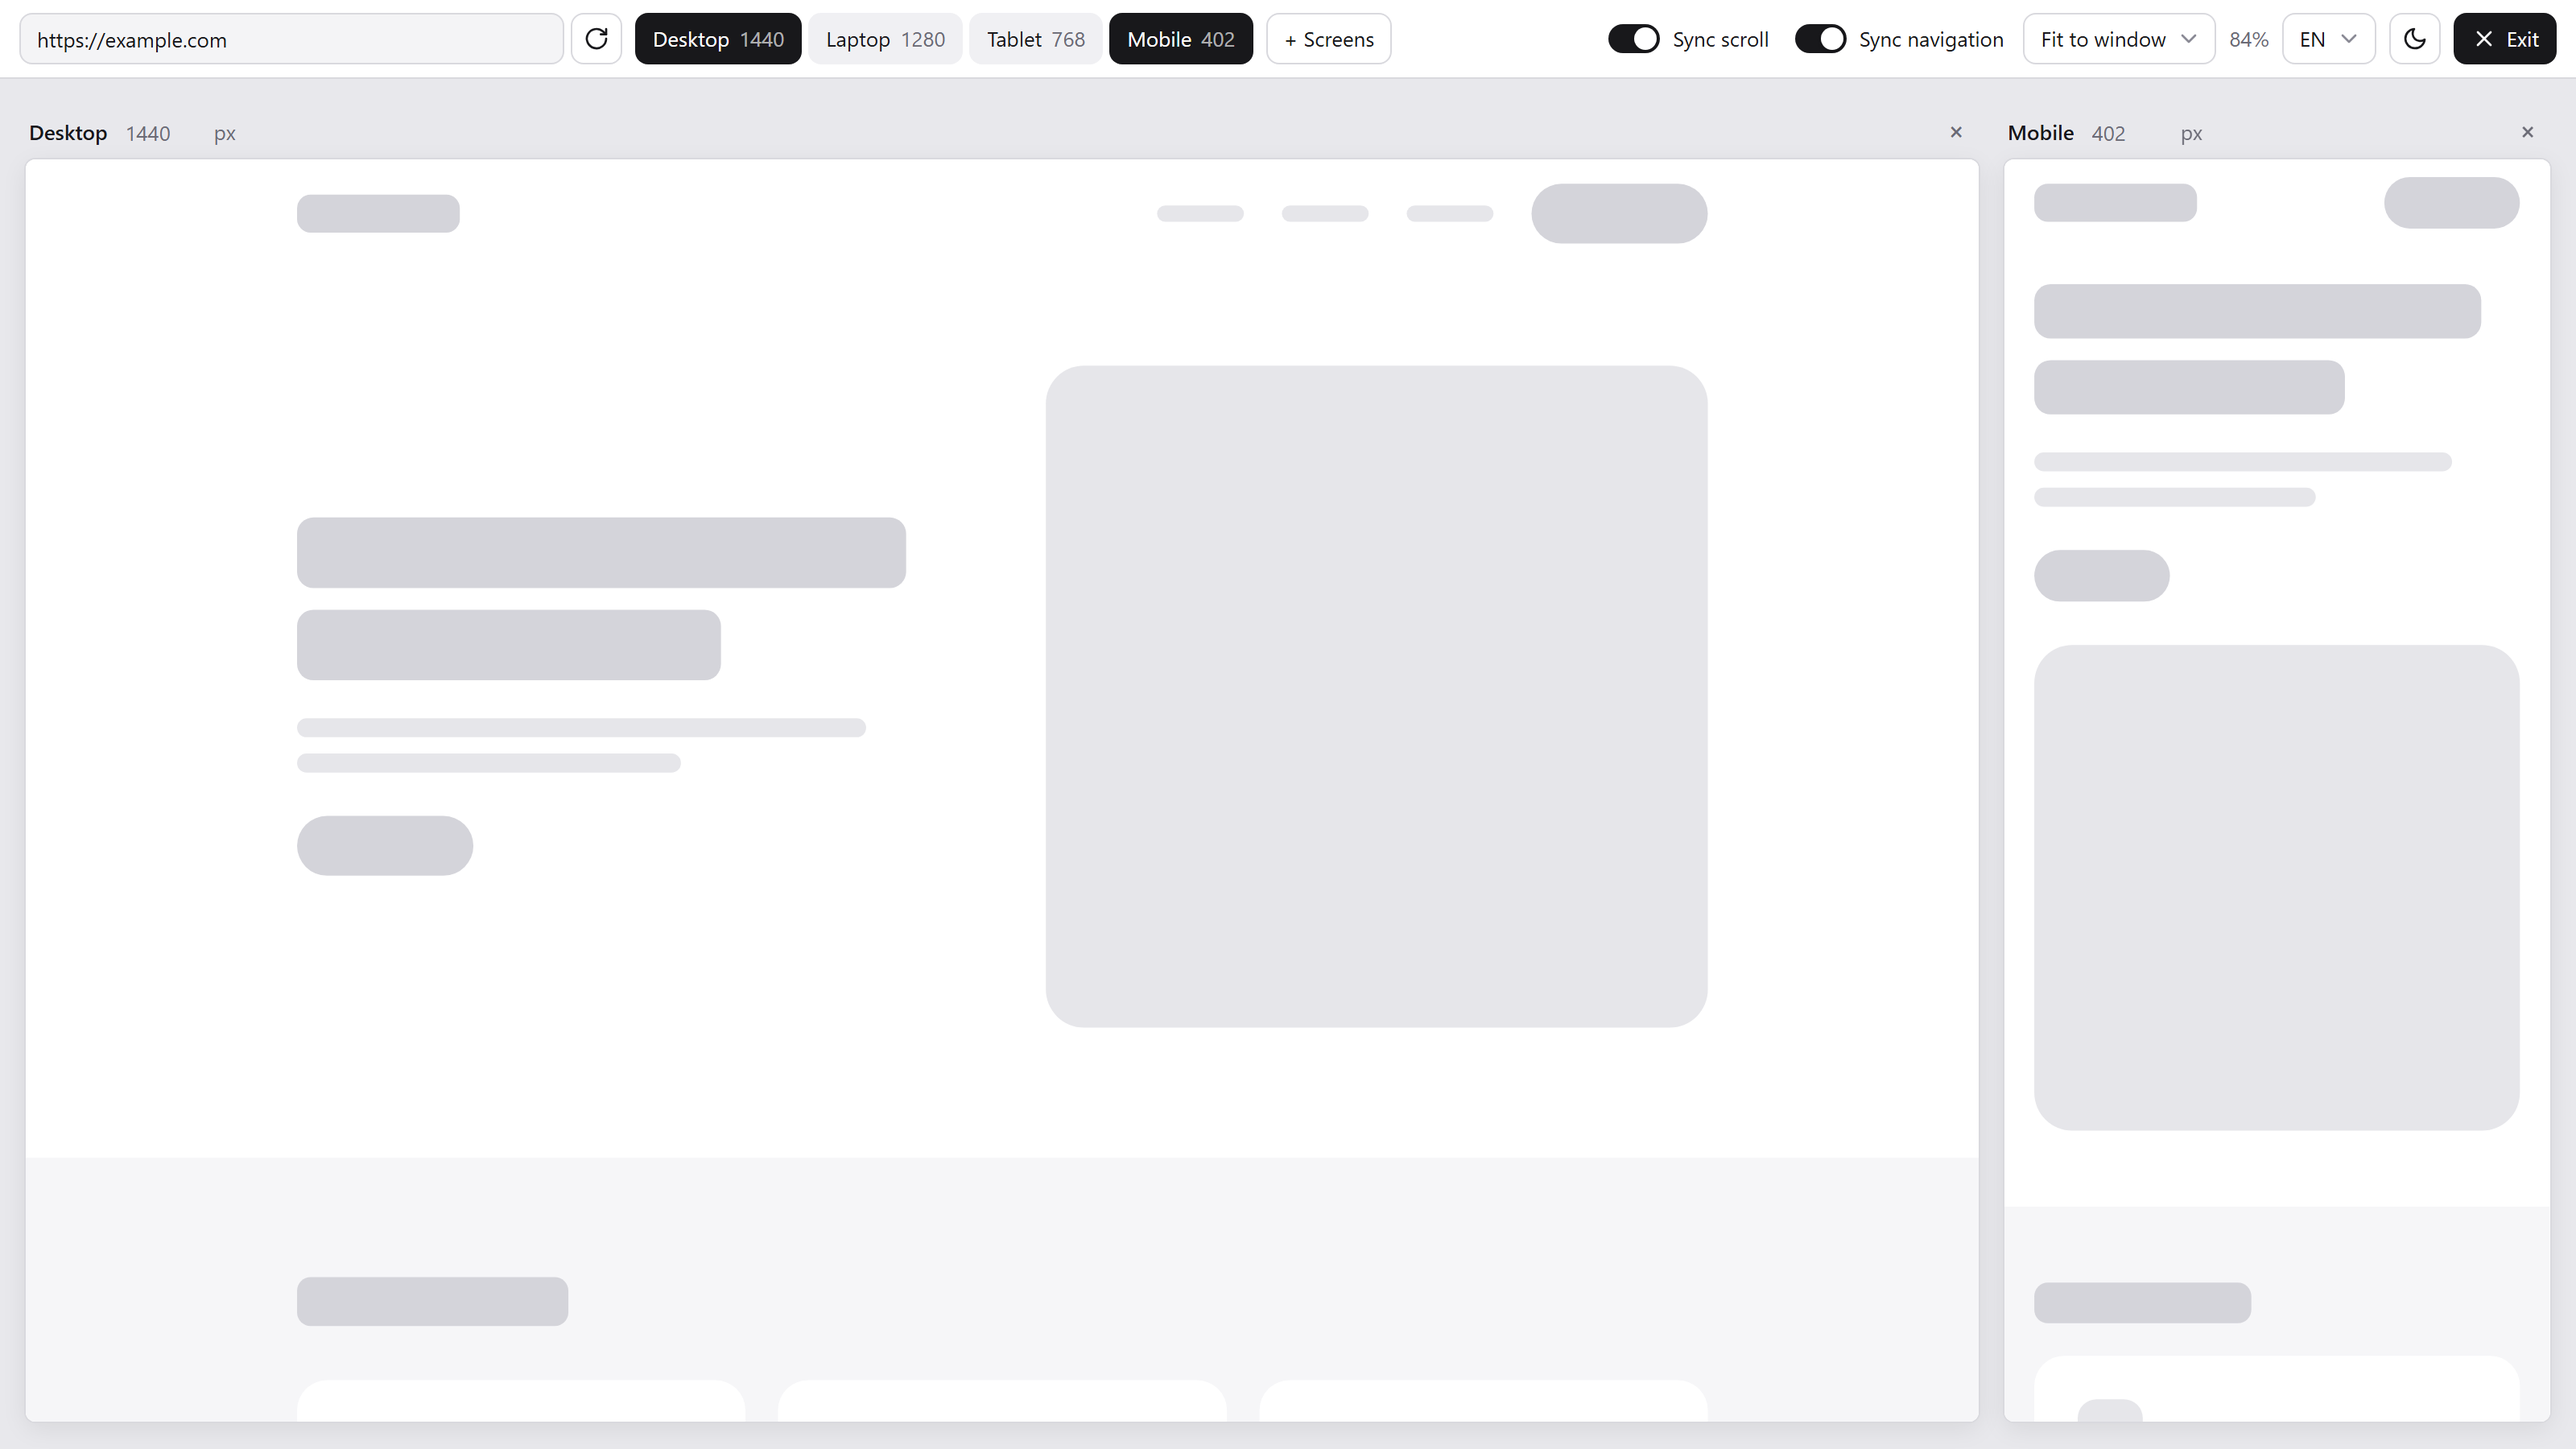
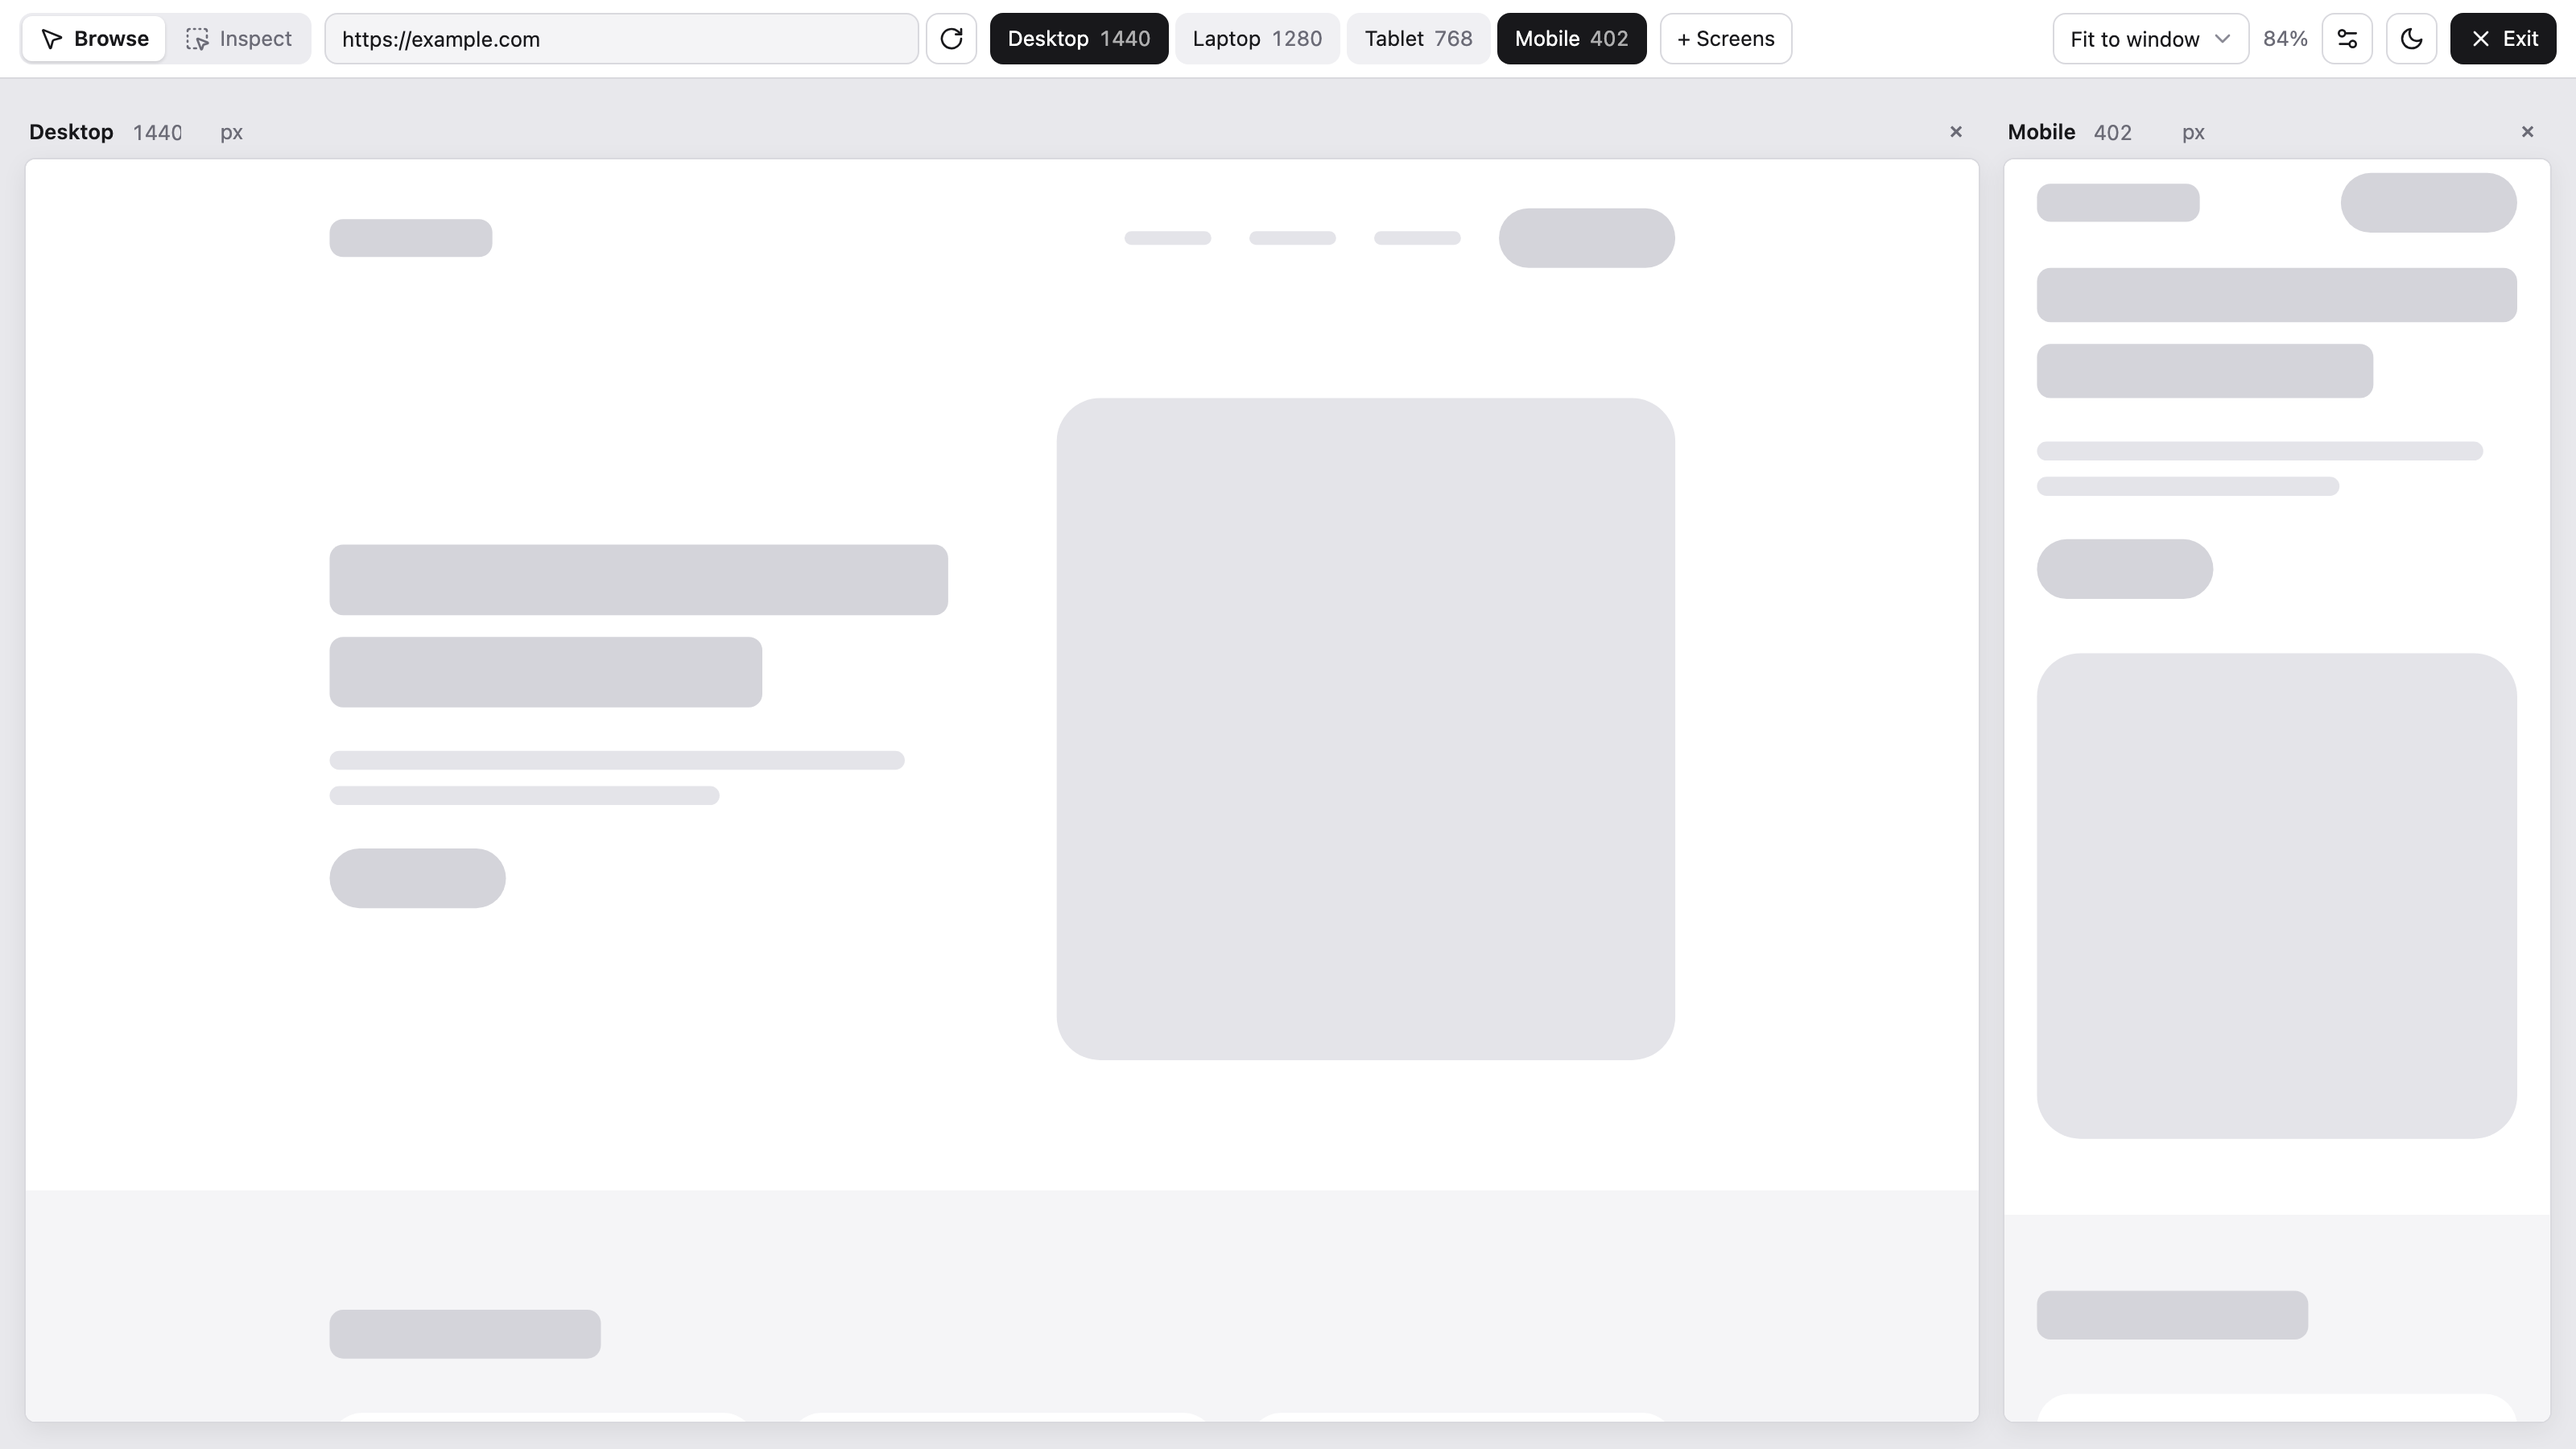
Update screenshots, add Inspect mode screenshot

diff --git a/README.md b/README.md
@@ -6,6 +6,8 @@ Chrome extension to preview any website at multiple screen sizes side by side (d
 
 ![Desktop and mobile side by side](screenshots/overview.png)
 
+![Inspect mode: click an element to see its size, spacing and colors](screenshots/inspect.png)
+
 <table>
   <tr>
     <td><img src="screenshots/dark.png" alt="Dark theme"></td>
